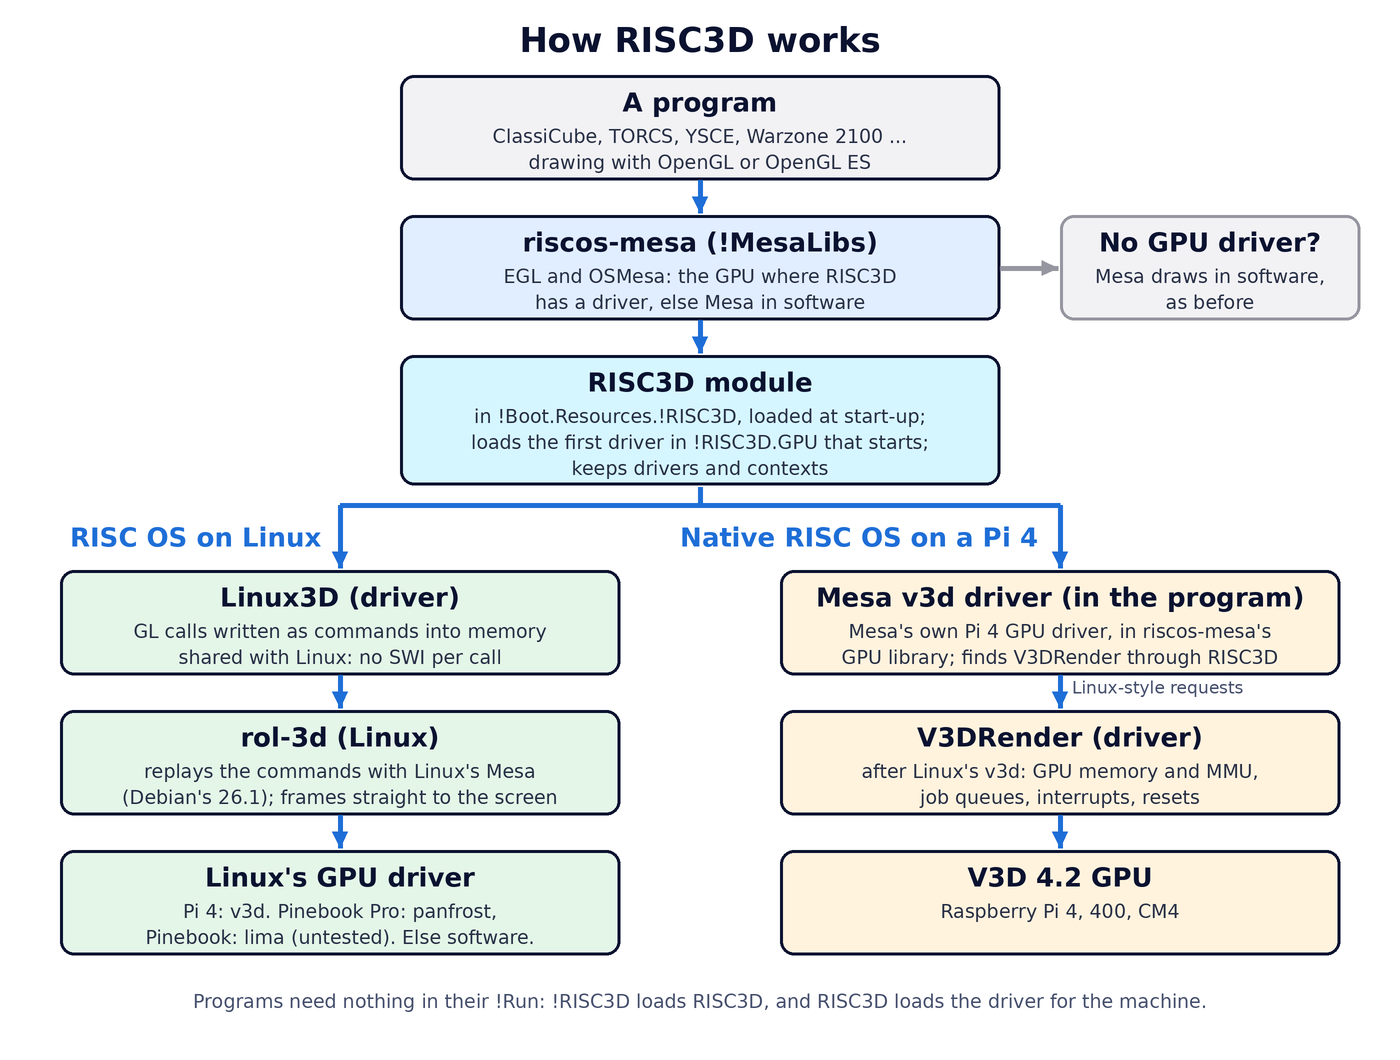
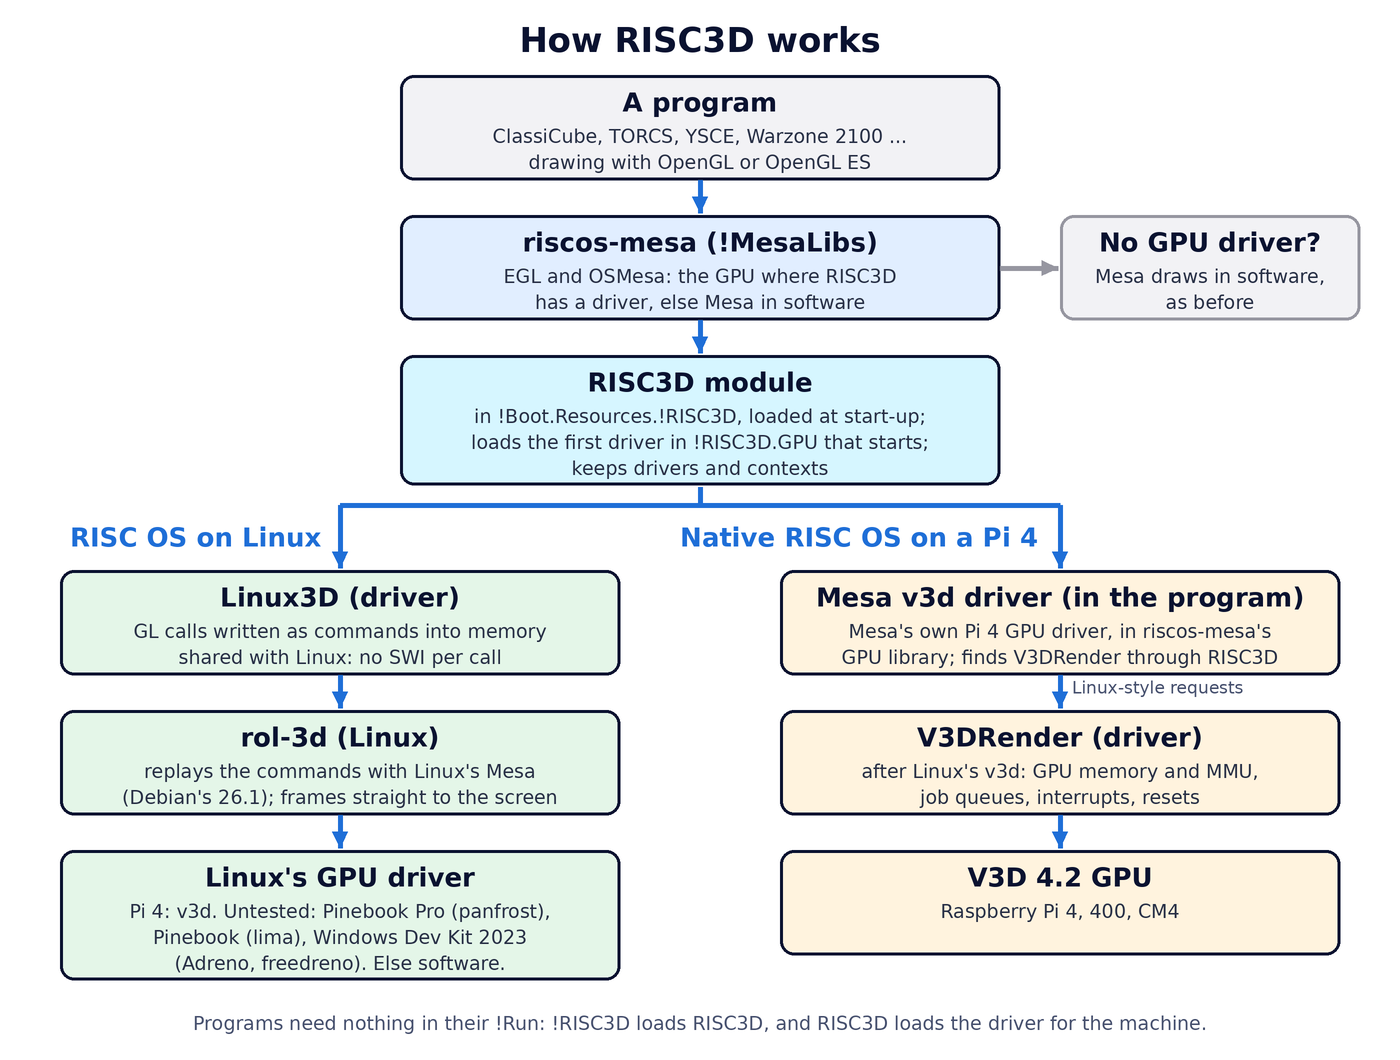
Diagram: the Windows Dev Kit 2023's Adreno (freedreno) on the Linux side, untested

Changed region(s): [[0.0307, 0.8406, 0.86, 0.9962]]

diff --git a/art/diagram.py b/art/diagram.py
@@ -32,7 +32,7 @@ arrow(1000,268,1058,268,col=(150,150,160))
 d.text((70*S,522*S),'RISC OS on Linux',font=fb,fill=BLUE)
 box(60,570,560,105,'Linux3D (driver)',['GL calls written as commands into memory','shared with Linux: no SWI per call'],GREEN)
 box(60,710,560,105,'rol-3d (Linux)',["replays the commands with Linux's Mesa","(Debian's 26.1); frames straight to the screen"],GREEN)
-box(60,850,560,105,"Linux's GPU driver",['Pi 4: v3d. Pinebook Pro: panfrost,','Pinebook: lima (untested). Else software.'],GREEN)
+box(60,850,560,130,"Linux's GPU driver",['Pi 4: v3d. Untested: Pinebook Pro (panfrost),','Pinebook (lima), Windows Dev Kit 2023','(Adreno, freedreno). Else software.'],GREEN)
 d.line([700*S,487*S,700*S,505*S],fill=BLUE,width=5*S); d.line([340*S,505*S,1060*S,505*S],fill=BLUE,width=5*S); arrow(340,505,340,568); arrow(340,675,340,708); arrow(340,815,340,848)
 # right: native
 d.text((680*S,522*S),'Native RISC OS on a Pi 4',font=fb,fill=BLUE)
@@ -41,5 +41,5 @@ box(780,710,560,105,'V3DRender (driver)',["after Linux's v3d: GPU memory and MMU
 box(780,850,560,105,'V3D 4.2 GPU',['Raspberry Pi 4, 400, CM4'],AMB)
 arrow(1060,505,1060,568); arrow(1060,675,1060,708,'Linux-style requests',lx=12,ly=-14); arrow(1060,815,1060,848)
 foot='Programs need nothing in their !Run: !RISC3D loads RISC3D, and RISC3D loads the driver for the machine.'
-d.text(((W-d.textlength(foot,font=fr))/2,990*S),foot,font=fr,fill=(70,80,110))
+d.text(((W-d.textlength(foot,font=fr))/2,1012*S),foot,font=fr,fill=(70,80,110))
 im=im.resize((W//S,H//S),Image.LANCZOS); im.save('docs/images/risc3d-how-it-works.png')
